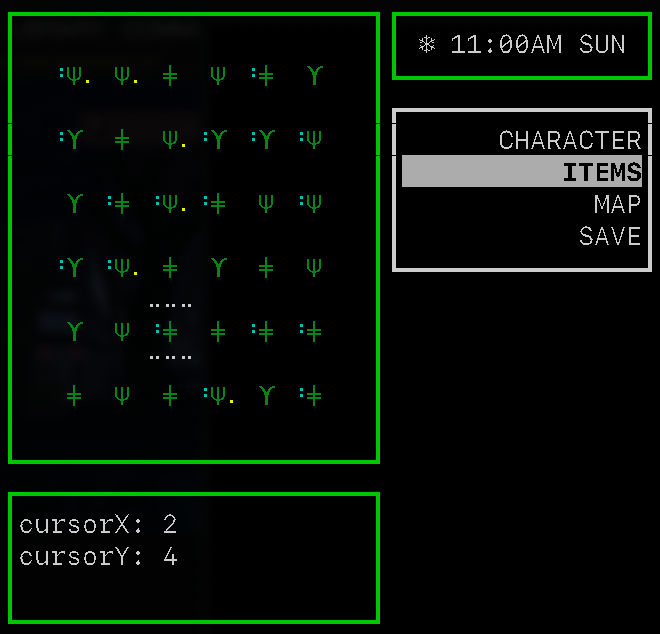
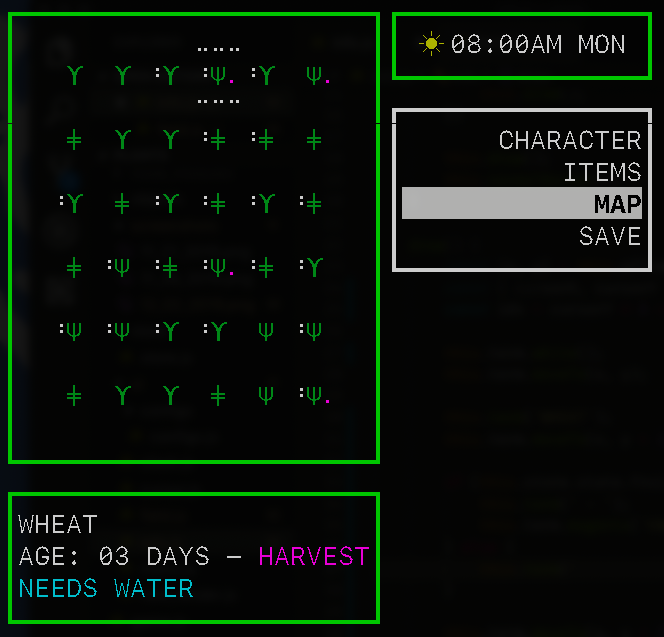
Add info to info component

diff --git a/ui/field.js b/ui/field.js
@@ -26,13 +26,16 @@ class Field extends UIComponent {
 
     draw() {
         const {x, y} = this.offset;
+        const idxs = [];
+        const fruits = [];
 
         for (let i = 0; i < 6; i++) {
             this.term.moveTo(x + 2, y + 1 + i * 2);
             
             for (let j = 0; j < 6; j++) {
                 if (Math.random() * 2 > 1) {
-                    this.term.cyan('\u2818');
+                    this.term.white('\u2818');
+                    idxs.push(i * 6 + j);
                 } else {
                     this.term(' ');
                 }
@@ -41,7 +44,8 @@ class Field extends UIComponent {
                 if (type > 2) {
                     this.term.color256(22)('\u03A8');
                     if (Math.random() * 2 > 1) {
-                        this.term.color256(11)('\u2804');
+                        this.term.magenta('\u2804');
+                        fruits.push(i * 6 + j);
                     } else {
                         this.term.noFormat(' ');
                     }
@@ -52,6 +56,8 @@ class Field extends UIComponent {
                 }
             }
         }
+
+        this.store.setState({ idxs, fruits });
     }
 }
 

diff --git a/ui/info.js b/ui/info.js
@@ -21,13 +21,28 @@ class Info extends UIComponent {
 
     draw() {
         const {x, y} = this.offset;
-        const { cursorX, cursorY } = this.state;
+        const { cursorX, cursorY }= this.state;
+        const idx = cursorY * 6 + cursorX;
 
-        this.term.white()
+        this.term.white();
         this.term.moveTo(x, y);
 
-        this.term('cursorX: ' + cursorX)
-        this.term.moveTo(x, y + 1)('cursorY: ' + cursorY)
+        this.term('WHEAT');
+        this.term.moveTo(x, y + 1)(`AGE: ${'0' + (idx % 10)} DAYS`);
+
+        if (this.store.state.fruits.includes(idx)) {
+            this.term(' - ');
+            this.term.magenta('HARVEST');
+        } else {
+            this.term('          ');
+        }
+
+        this.term.moveTo(x, y + 2)
+        if (this.store.state.idxs.includes(idx)) {
+            this.term.cyan('NEEDS WATER');
+        } else {
+            this.term('           ');
+        }
     }
 }
 
